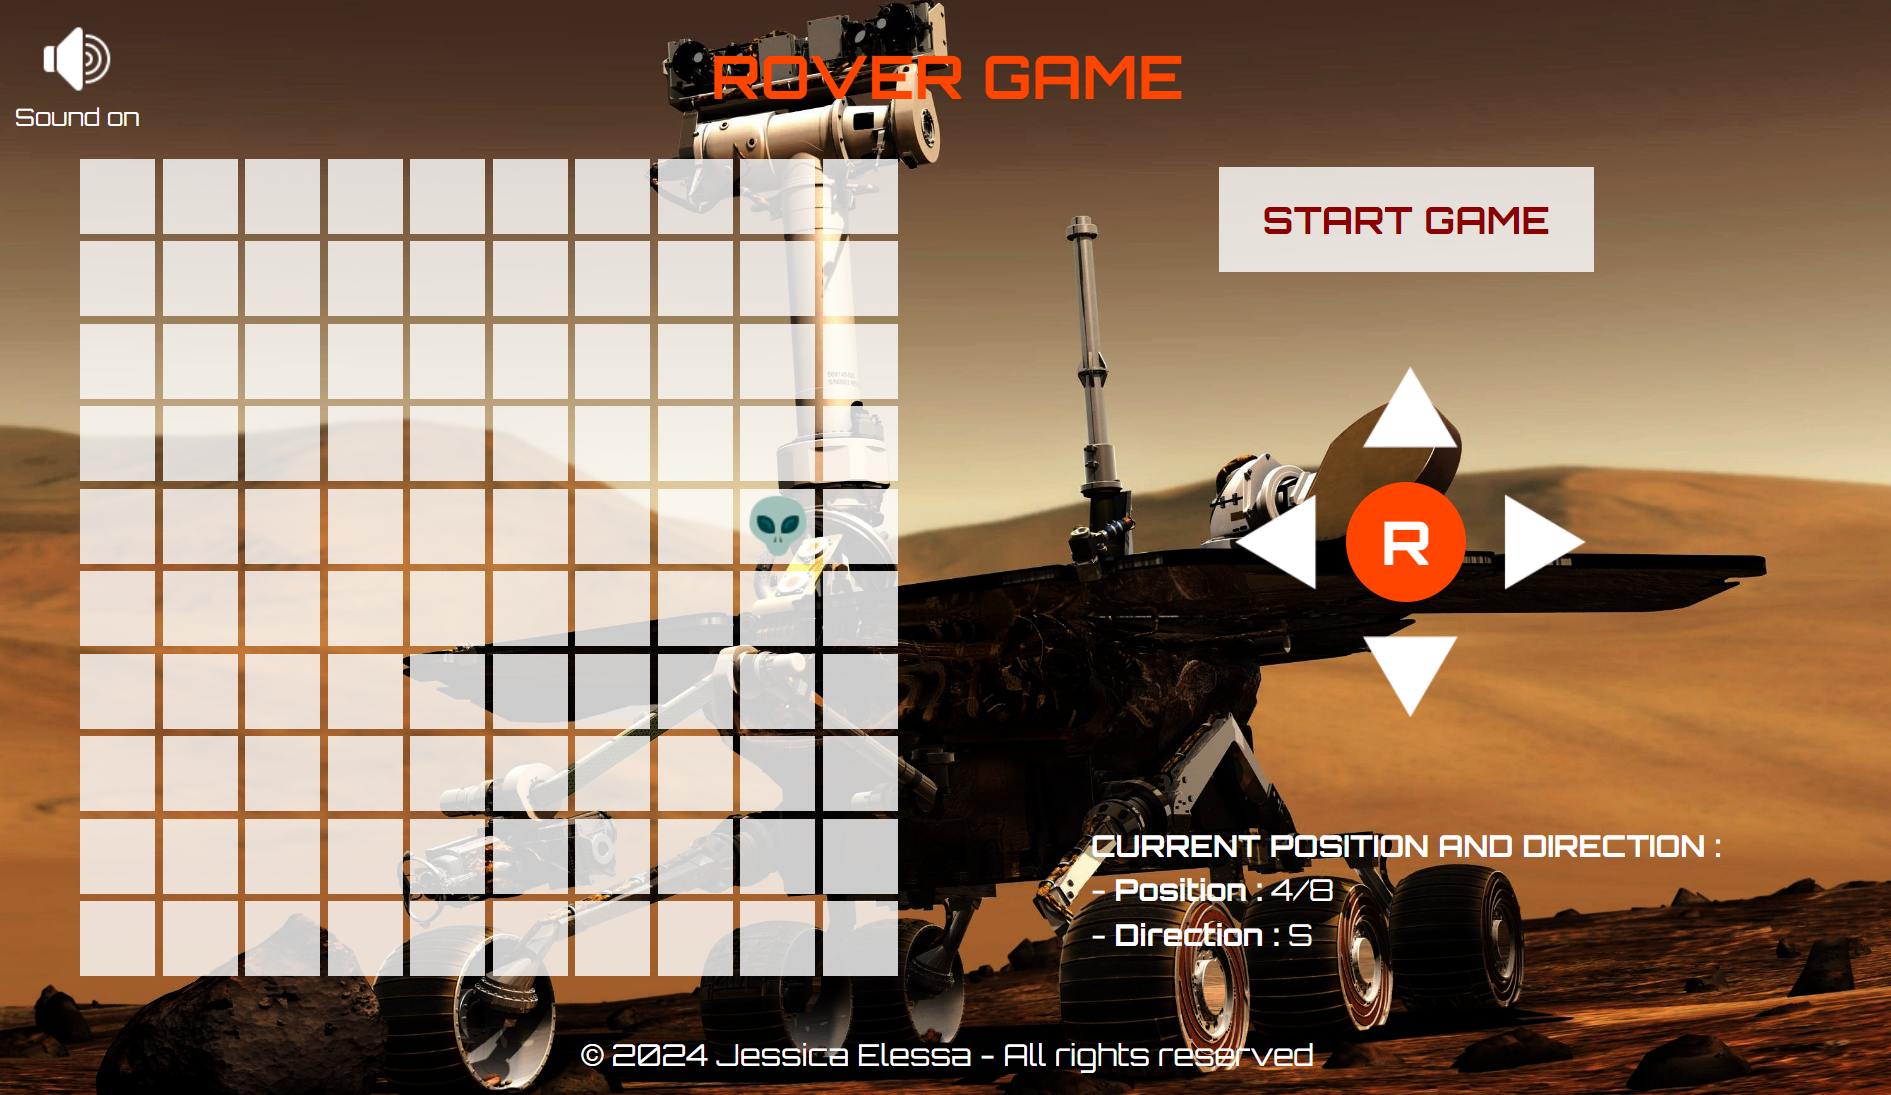
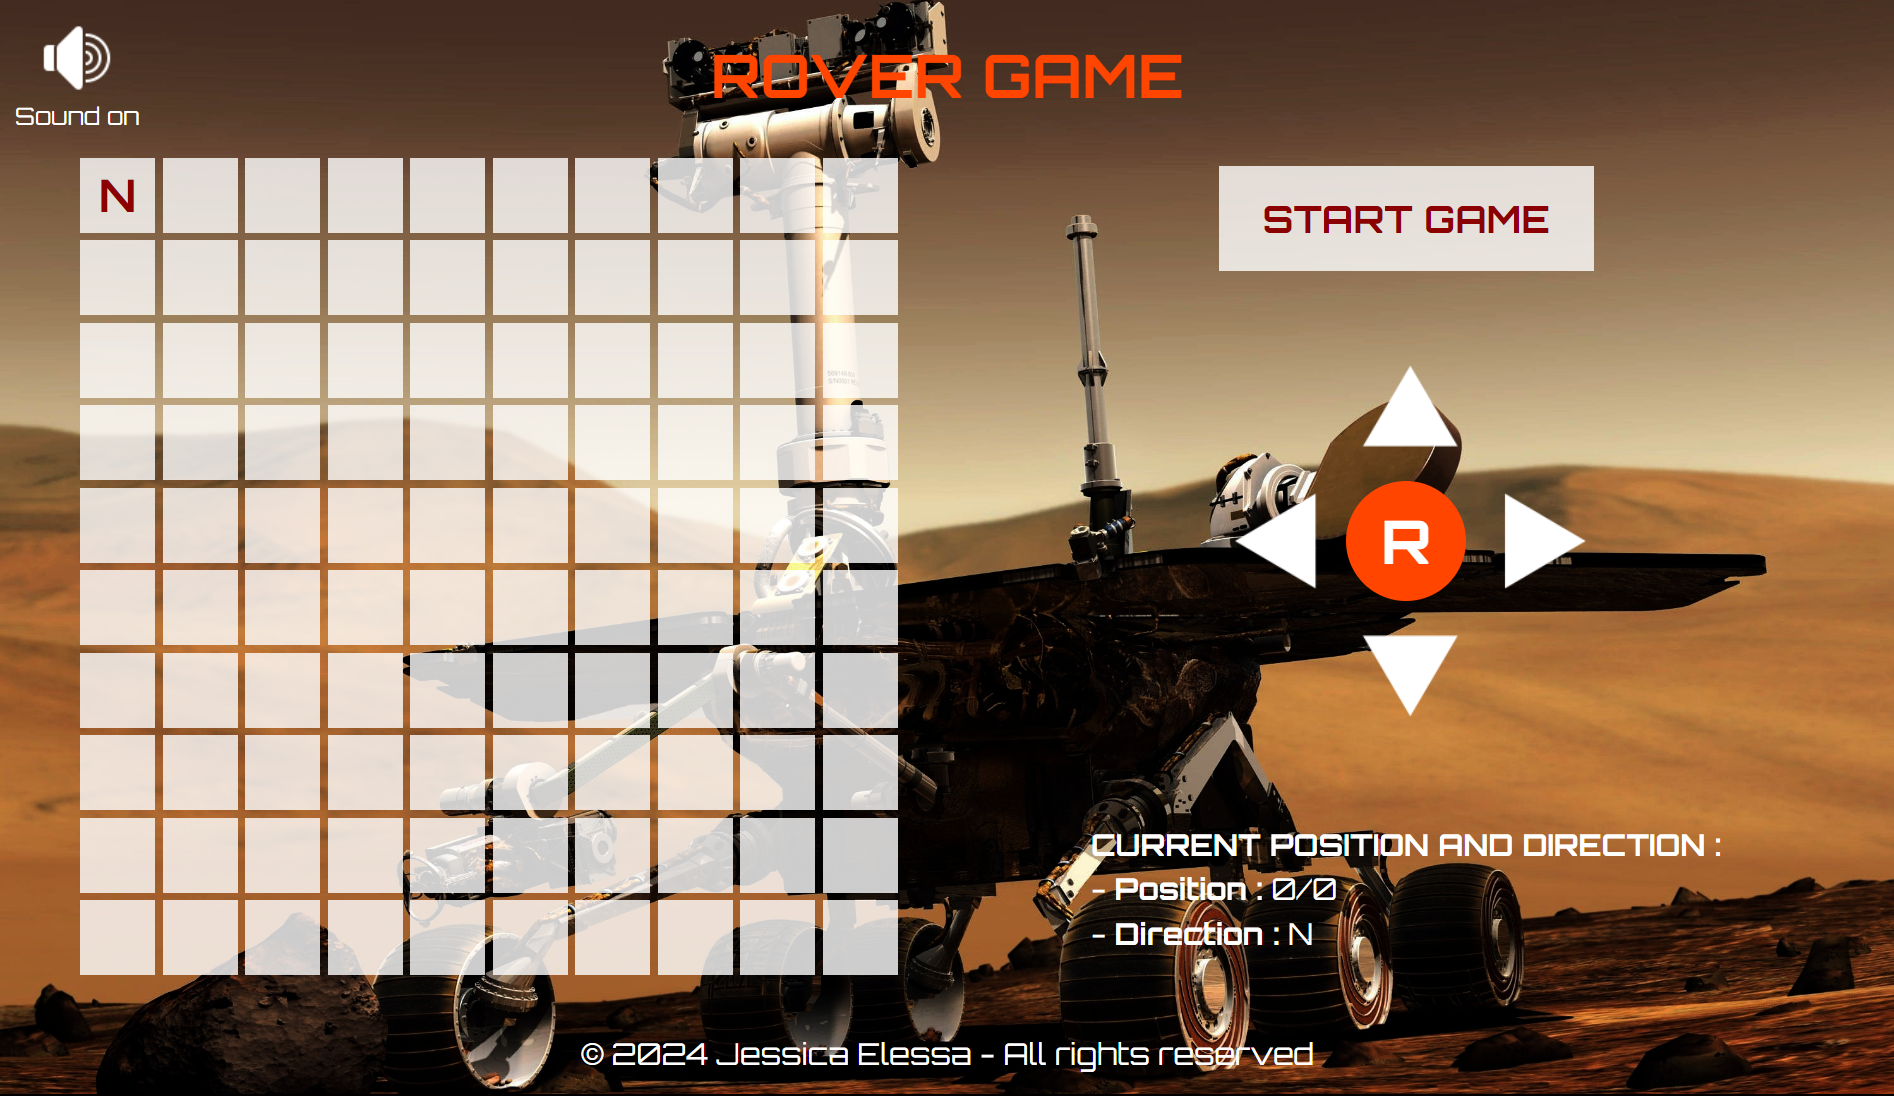
handled commands limitation when gameStarted set to 'false'

diff --git a/script.js b/script.js
@@ -13,52 +13,74 @@ const alienImg = document.querySelector(".alien");
 
 // Set rover object
 const rover = {
-  direction: "N",
   x: 0, // x = row index
   y: 0, // y = column index
+  direction: "N",
 };
 
 // Other global variables
+let firstGridDisplay;
+let gridReset;
 let gameStarted;
-let alienFound = false;
+let alienFound;
 let timerId;
-let timerPaused = false;
+let cells;
 
 // Display initial grid on loading page
 displayInitialGrid();
 
 function displayInitialGrid() {
+  // Initialize game state
+  firstGridDisplay = true;
+  gridReset = false;
+  gameStarted = false;
+  alienFound = false;
+
   initGrid();
+
+  // Declare cells inside function after DOM is loaded to prevent error message saying 'textContent' property in updateGrid function has a value "undefined"
+  cells = document.querySelectorAll(".cell");
+
   updateGridAndInfo(rover.x, rover.y);
   randomlyHideAlien();
 }
 
 // Handle click on start button
 startButton.addEventListener("click", () => {
-  gameStarted = true;
-  startTimer();
+  if (!gameStarted) {
+    // Neutralise button if game won to force use of reset button
+    if (alienFound) {
+      openModalAlert("Click on 'R' button to reset the grid.");
+      return;
+    }
+    // If game has not started
+    else {
+      gameStarted = true;
+      gridReset = false;
+      startTimer();
+    }
+  }
+  //  If game has already started
+  else {
+    openModalAlert("Game still in progress.");
+  }
 });
 
+// Create game timer
 function startTimer() {
-  if (timerPaused) return; // If timer is paused, do nothing
-
   timerId = setTimeout(() => {
     if (!alienFound) {
       openModalAlert(
-        "GAME OVER</br>You didn't find the alien within the deadline &#128125&nbsp;!"
+        "GAME OVER - You didn't find the alien within the deadline &#128125&nbsp;!<br/> Click on 'R' button to reset the grid."
       );
 
-      resetGridAndInfo();
-
-      // End game
-      gameStarted = false;
+      gameStarted = false; // End game
     }
   }, 30000);
 }
 
 // Randomly hide alien image under a grid cell
 function randomlyHideAlien() {
-  const cells = document.querySelectorAll(".cell");
   const randomIndex = Math.floor(Math.random() * cells.length);
 
   cells.forEach((cell, index) => {
@@ -88,7 +110,6 @@ function initGrid() {
 
 // Update grid with rover position
 function updateGrid() {
-  const cells = document.querySelectorAll(".cell");
   cells.forEach((cell) => (cell.textContent = ""));
 
   // Calculate index of cell depending on rover current position
@@ -109,14 +130,11 @@ function updateGrid() {
     clearTimeout(timerId);
 
     openModalAlert(
-      `CONGRATULATIONS</br>You've found an alien on Mars at position ${rover.x}/${rover.y} &#128125&#127881&nbsp;!`
+      `CONGRATULATIONS - You've found an alien on Mars at position ${rover.x}/${rover.y} &#128125&#127881&nbsp;!</br>Click on 'R' button to reset the grid.`
     );
 
     // End game
     gameStarted = false;
-
-    // // Call resetGridAndInfo after 5 seconds
-    // setTimeout(() => resetGridAndInfo(), 5000);
   }
 }
 
@@ -153,28 +171,27 @@ arrowButtons.forEach((button) => {
   });
 });
 
-// Reset grid and info
+// Handle 'Reset' button
 resetButton.classList.add("reset");
 resetButton.textContent = "R";
 arrowGrid.append(resetButton);
 
 const resetGridAndInfo = () => {
-  // Neutralize reset button if game has not started
-  if (!gameStarted) {
-    openModalAlert("Click on 'Start Game' to start piloting the rover.");
-    return;
-  }
+  // Reset game state
+  firstGridDisplay = false;
+  gridReset = true;
+  gameStarted = false;
+  alienFound = false;
 
   // Initialize rover position and direction
   rover.x = 0;
   rover.y = 0;
   rover.direction = "N";
 
+  // Update grid and hide alien
   updateGridAndInfo(rover.x, rover.y);
   randomlyHideAlien();
 };
-
-// Handle click on reset button
 resetButton.addEventListener("click", resetGridAndInfo);
 
 // rover directions and moves
@@ -298,11 +315,21 @@ function moveBackward(rover) {
   }
 }
 
-// rover driving
+// Rover driving
 function pilotrover(move) {
-  // Neutralize arrow buttons if game has not started
+  // Neutralize arrow buttons if gameStarted set to 'false'
   if (!gameStarted) {
-    openModalAlert("Click on 'Start Game' to start piloting the rover.");
+    // Game won
+    if (alienFound) {
+      openModalAlert("Click on 'R' button to reset the grid.");
+    }
+    // Game not started yet or lost
+    else {
+      // Check if first grid display
+      if (firstGridDisplay || gridReset) {
+        openModalAlert("Click on 'Start Game' to start playing.");
+      }
+    }
     return;
   }
 
@@ -343,7 +370,6 @@ const closeButtons = document.querySelectorAll(".close-button");
 function openModalAlert(message) {
   modalContainer.style.display = "block";
   alertMessage.innerHTML = message;
-  timerPaused = true; // Pause timer
 
   closeButtons.forEach((button) =>
     button.addEventListener("click", closeModalAlert)
@@ -352,7 +378,6 @@ function openModalAlert(message) {
 
 function closeModalAlert() {
   modalContainer.style.display = "none";
-  timerPaused = false; // Resume timer
 }
 
 // Handle orientation change depending on screen width

diff --git a/README.md b/README.md
@@ -12,7 +12,6 @@ This project is an interactive application that allows a user to control a rover
   - [Commands](#commands)
 - [Run the project locally](#run-the-project-locally)
 - [Contributing](#contributing)
-- [Possible Enhancements](#possible-enhancements)
 - [Stay Updated](#stay-updated)
 - [Contact](#contact)
 
@@ -57,14 +56,6 @@ Use the visual buttons to move the rover :
 
 - If you're interested in contributing, explore the project's structure in the HTML, CSS, and JavaScript files.
 - Feel free to make improvements, fix bugs, or suggest new features.
-
-## Possible Enhancements
-
-- Animations for Rover movements.
-- Enhanced error handling with interactive messages.
-- Restricting certain commands based on direction.
-- Obstacle mode with randomly placed obstacles on the grid.
-- Etc.
 
 ## Stay updated
 
